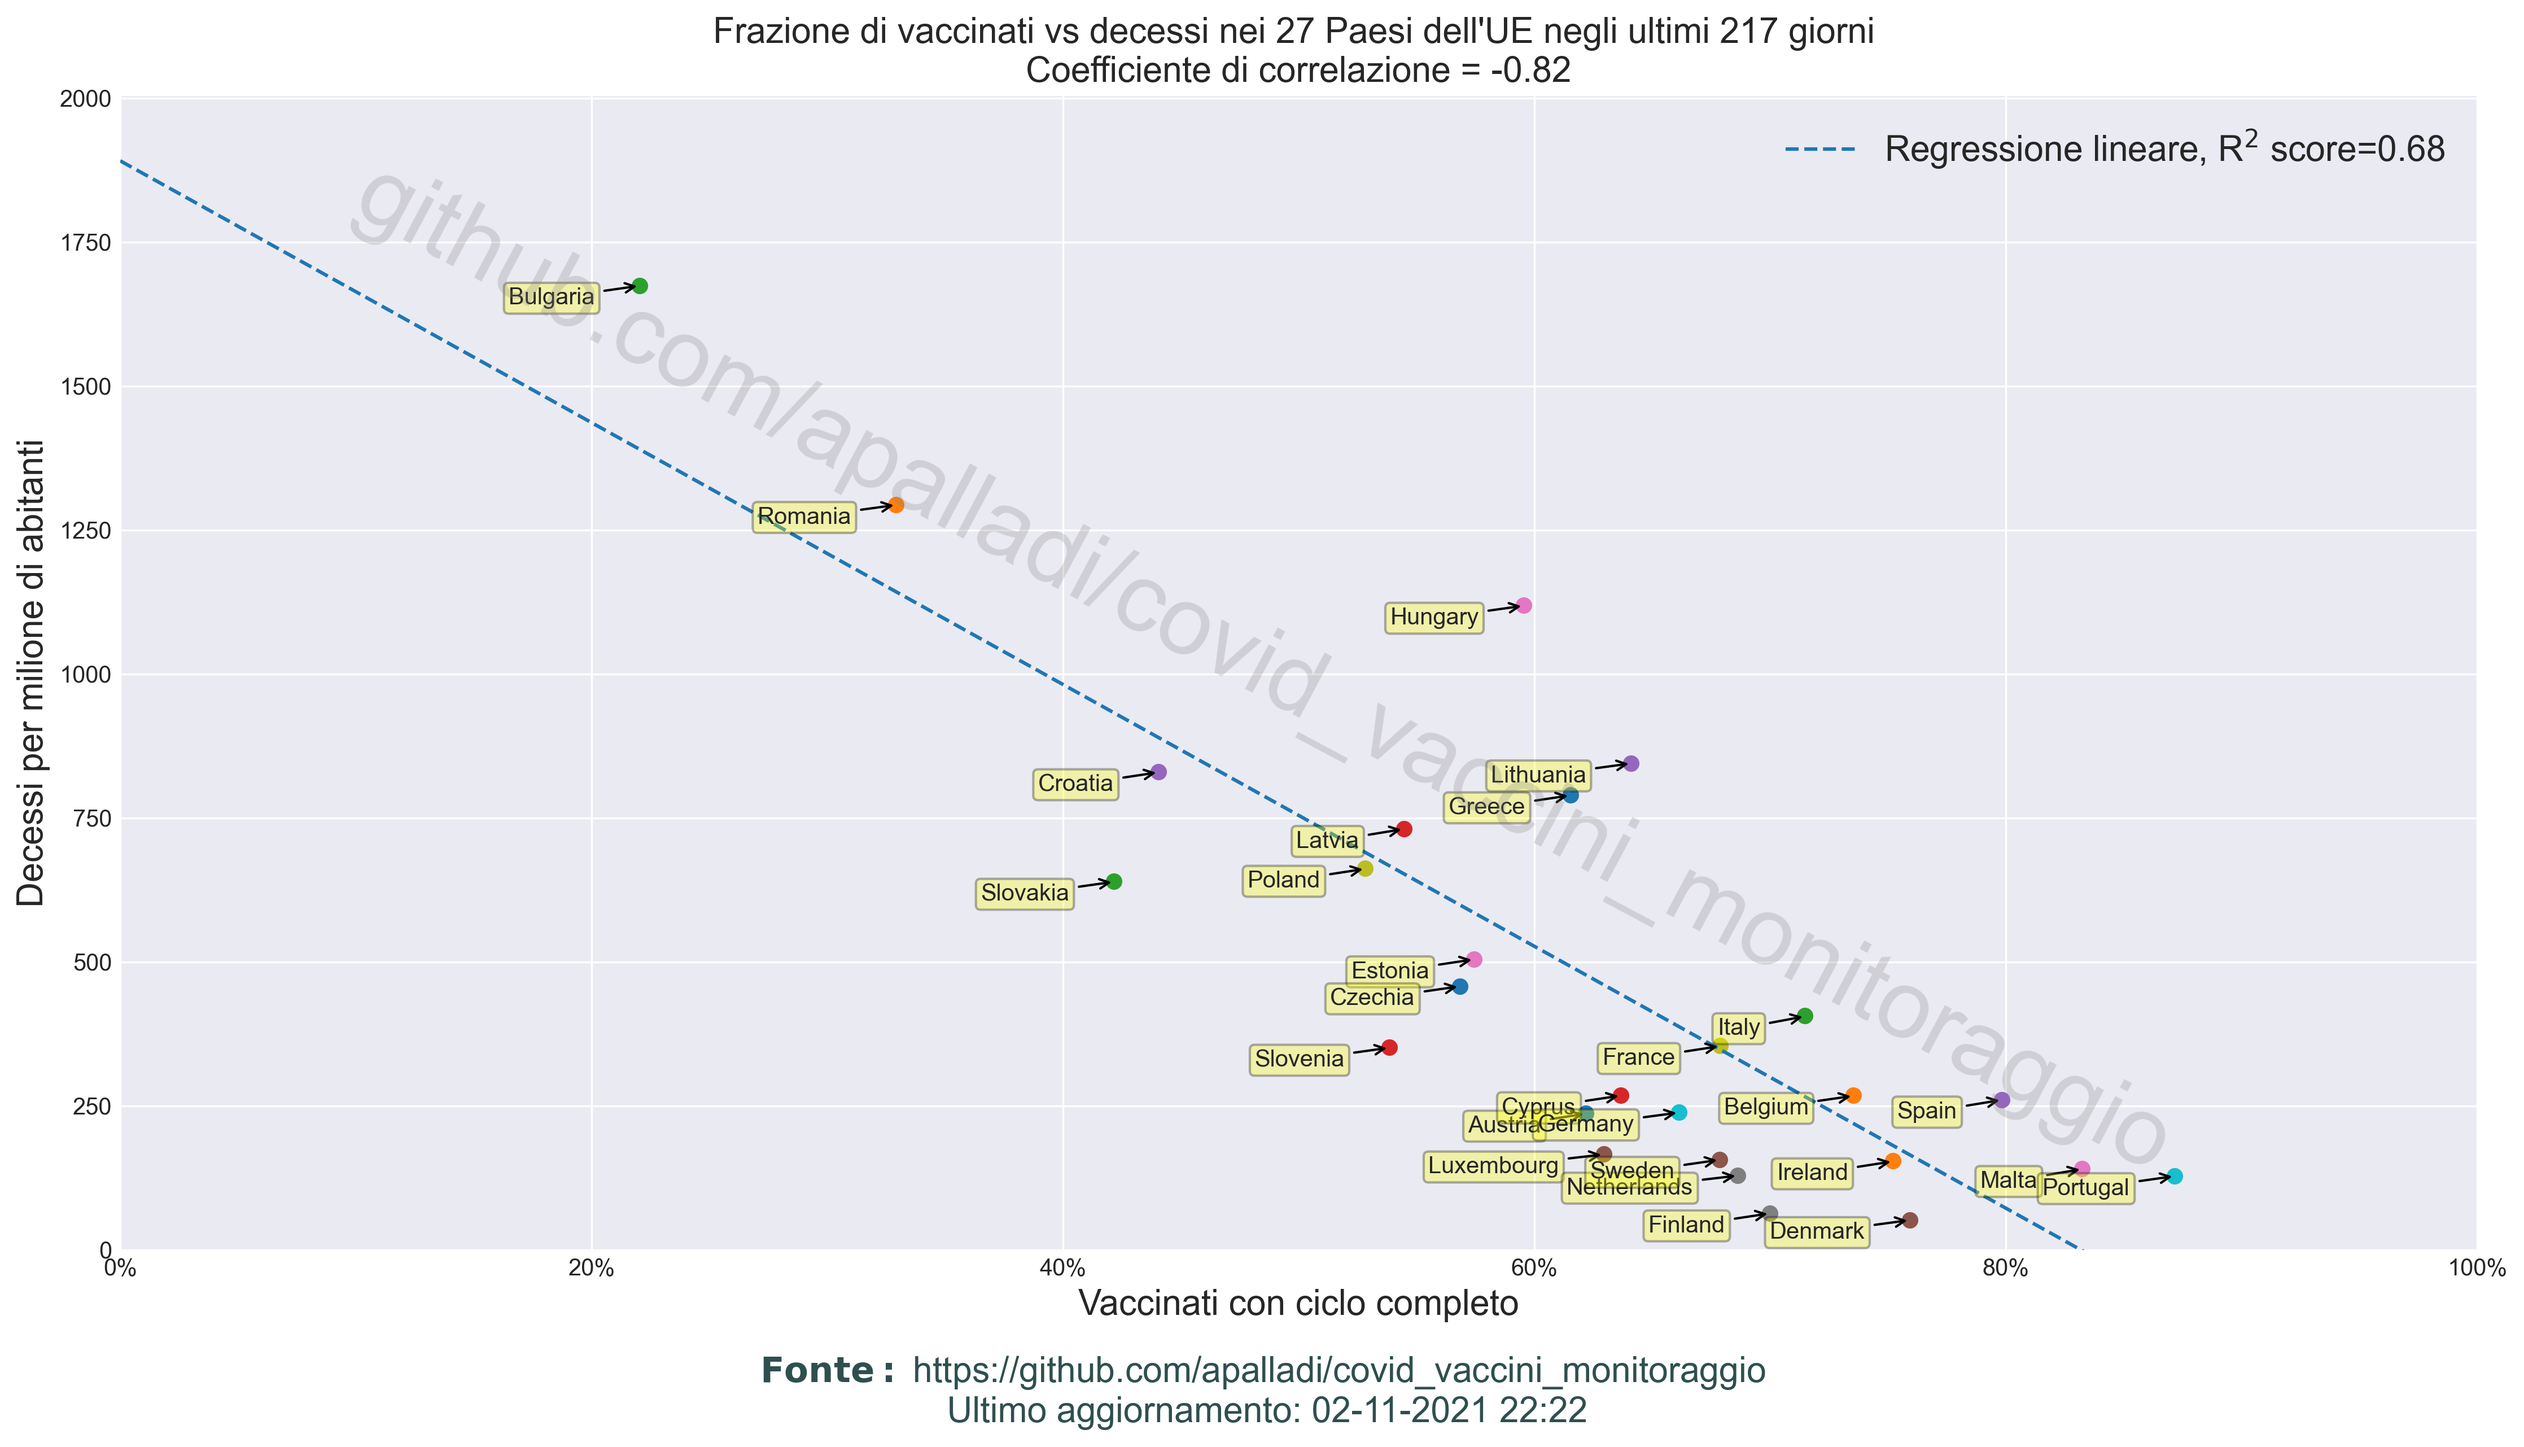
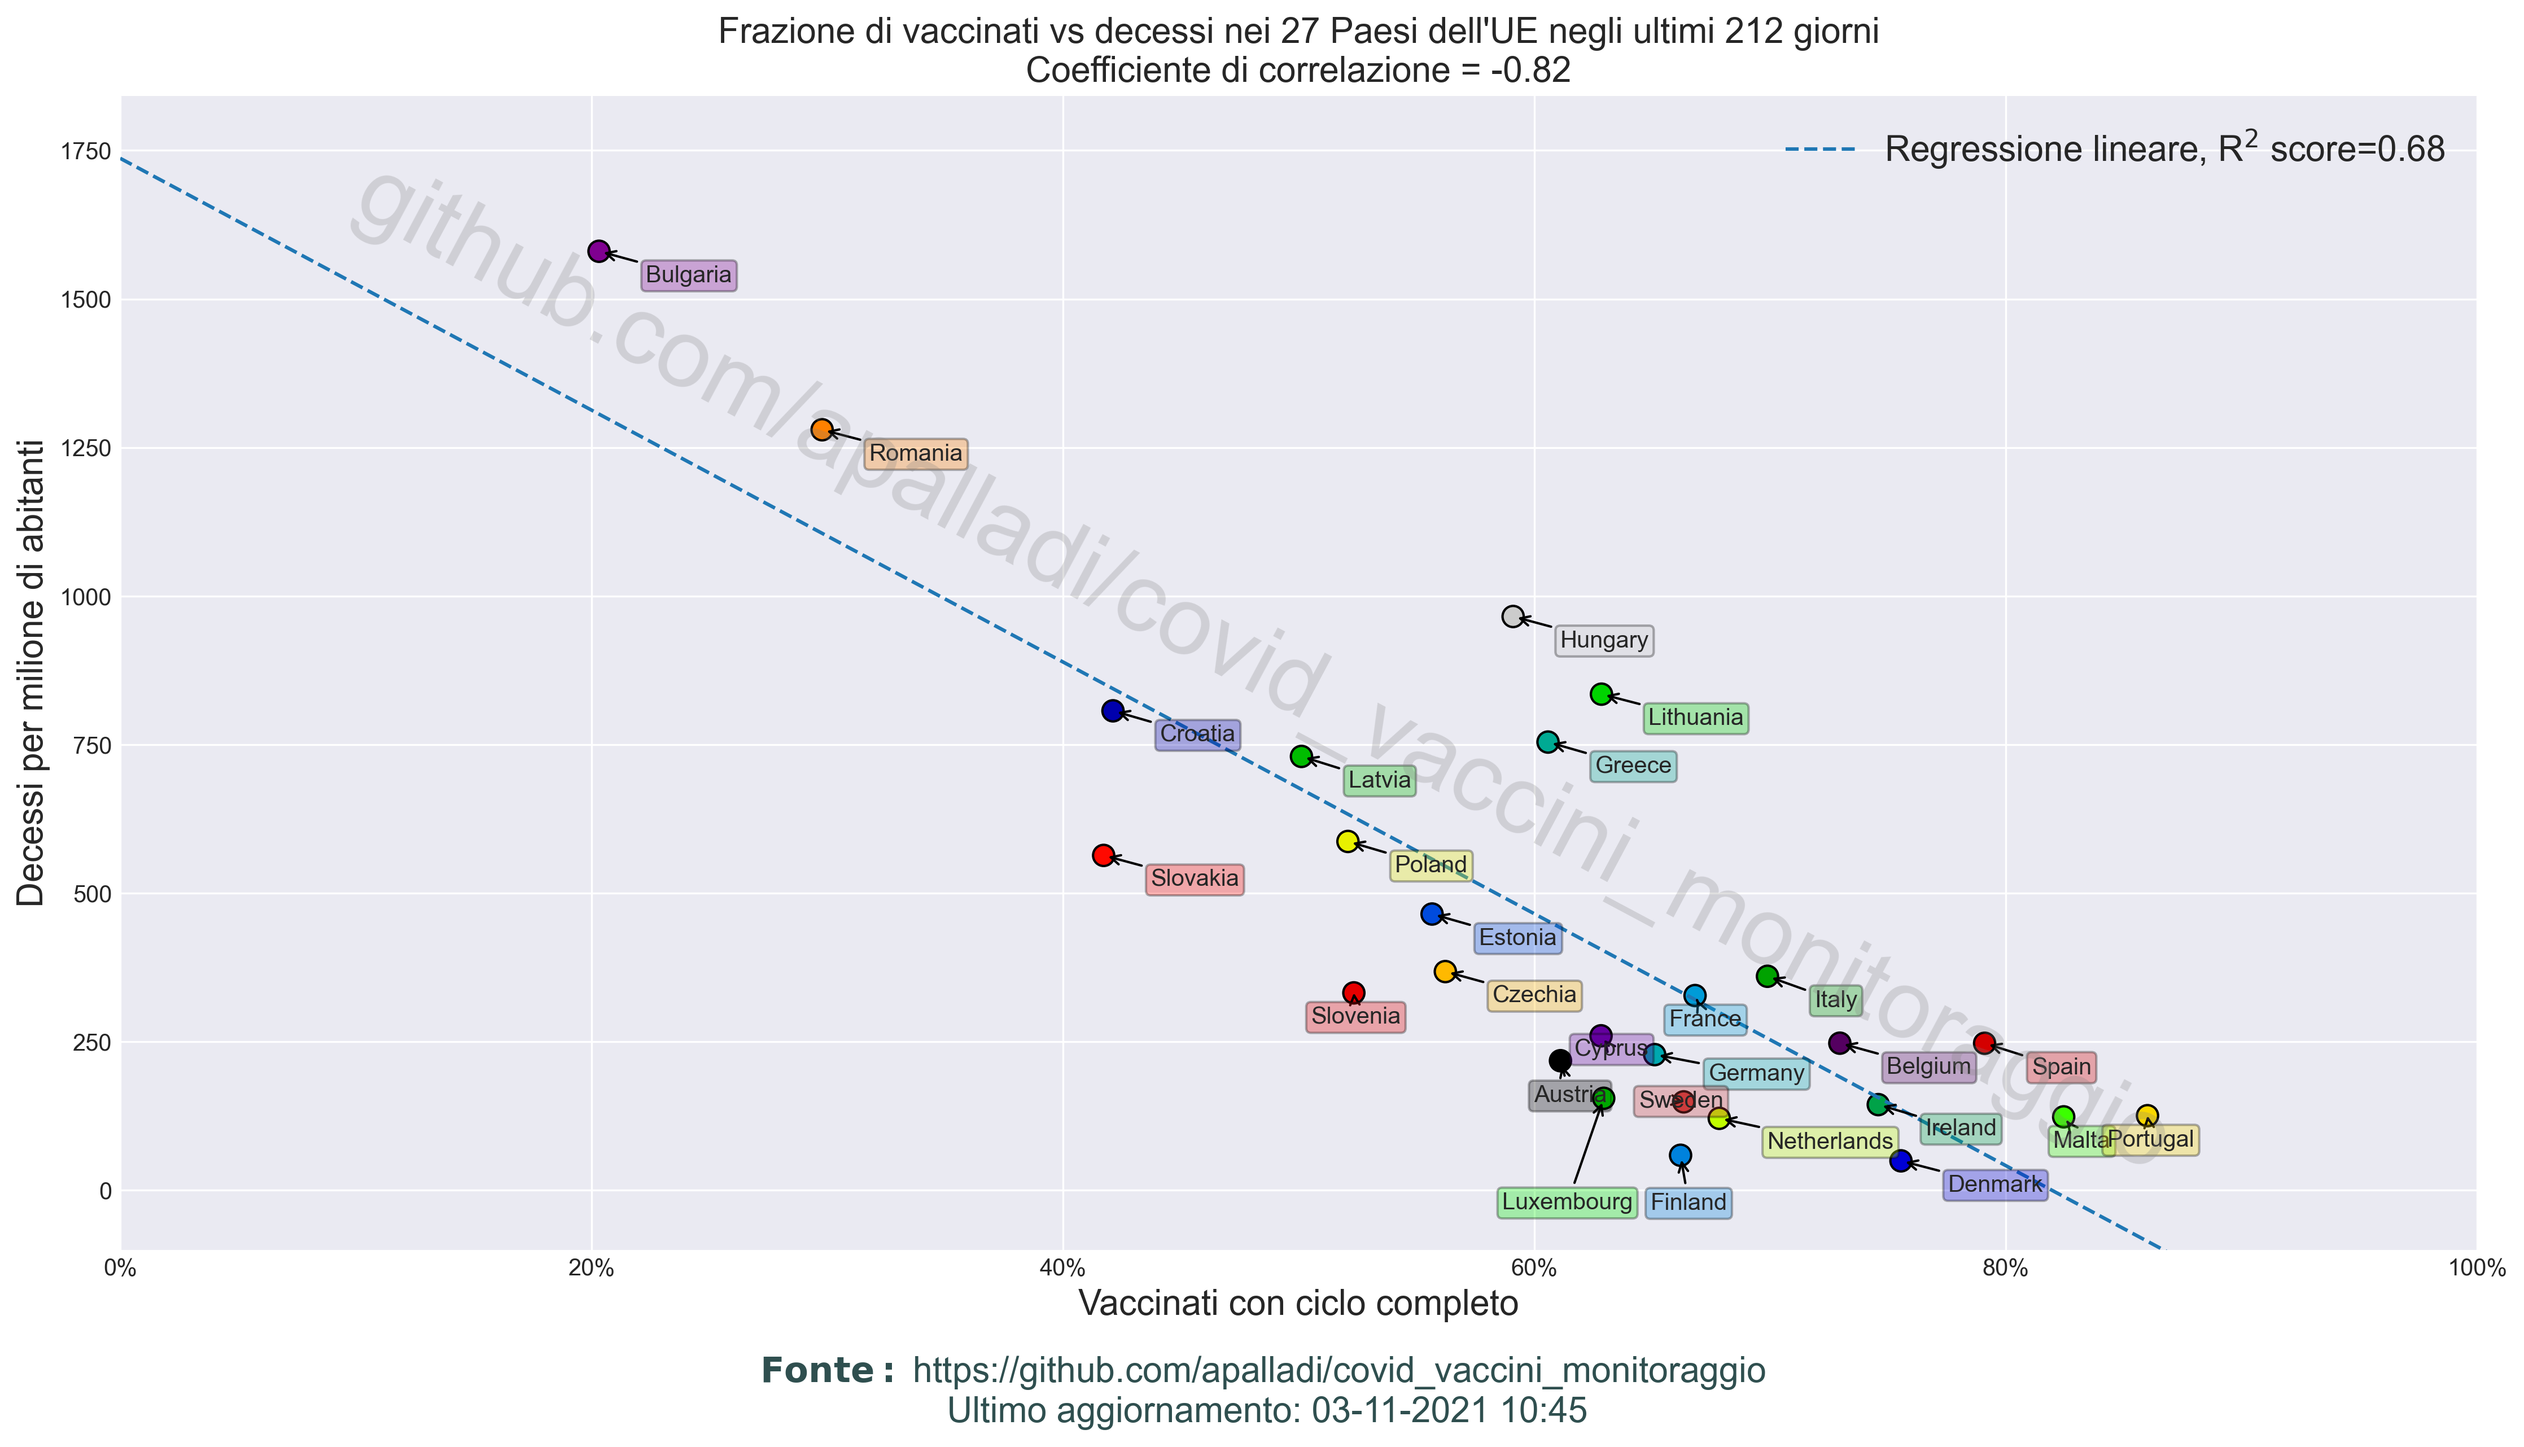
confronti_europei.py: correzione sovrapposizioni labels scatter plot

diff --git a/scripts/confronti_europei.py b/scripts/confronti_europei.py
@@ -6,6 +6,7 @@ from os import chdir, path
 import matplotlib.pyplot as plt
 import numpy as np
 import pandas as pd
+from adjustText import adjust_text
 from sklearn.metrics import r2_score
 
 from custom.plots import aggiorna_ascissa
@@ -51,6 +52,7 @@ def get_vaccine_data(country, df_vacc):
 def import_epidem_data():
     """ Recupera dati epidemiologici dal JHU CSSE
         (Johns Hopkins Unversity)"""
+
     base = "https://raw.githubusercontent.com/CSSEGISandData/COVID-19/master/csse_covid_19_data/csse_covid_19_time_series/"  # noqa: E501
     file_confirmed = base + "time_series_covid19_confirmed_global.csv"
     file_deaths = base + "time_series_covid19_deaths_global.csv"
@@ -126,6 +128,7 @@ def linear_model(x, coeff_fit):
 
 def linear_fit(vacc_res_2021, dec_res_2021):
     """ fit lineare """
+
     coeff_fit = np.polyfit(vacc_res_2021, dec_res_2021, 1)
     x_grid = np.arange(0, 100, 1)
     y_grid = [linear_model(v, coeff_fit) for v in x_grid]
@@ -143,6 +146,7 @@ def linear_fit(vacc_res_2021, dec_res_2021):
 def corr_window(tw):
     """ Recupera dati decessi e vaccini per la finestra
         temporale e i paesi selezionati """
+
     dec_res = []
     vacc_res = []
     for p, abitanti in paesi_abitanti_eu.items():
@@ -155,6 +159,7 @@ def corr_window(tw):
 def compute_max_correlation():
     """ calcola la finestra temporale in cui si ottiene
         la massima correlazione """
+
     tw_grid = np.arange(7, 300, 5)
     corr_grid = [np.abs(corr_window(tw)) for tw in tw_grid]
     ideal_window = tw_grid[np.argmax(corr_grid)]
@@ -248,18 +253,26 @@ def plot_correlazione_vaccini_decessi(vacc_res_2021, dec_res_2021, x_grid, y_gri
 
     # scatter plot
     paesi = list(paesi_abitanti_eu.keys())
-    for i in range(len(vacc_res_2021)):
-        plt.scatter(vacc_res_2021[i], dec_res_2021[i])
-        plt.annotate(paesi[i],
-                     xy=(vacc_res_2021[i]+0.1, dec_res_2021[i]),
-                     xytext=(-20, -10),
-                     textcoords="offset points", ha="right", va="bottom",
-                     bbox=dict(boxstyle="round,pad=0.2", fc="yellow", alpha=0.3),
-                     arrowprops=dict(arrowstyle="->", connectionstyle="arc3,rad=0"))
+    # genera lista di colori
+    colors = plt.cm.nipy_spectral(np.linspace(0, 1, len(paesi)))
+    plt.scatter(vacc_res_2021, dec_res_2021, c=colors,
+                edgecolor="black", s=3*len(paesi))
+
+    texts = [plt.annotate(paesi[i],
+             xy=(vacc_res_2021[i], dec_res_2021[i]),
+             xytext=(20, -15),
+             textcoords="offset points",
+             bbox=dict(boxstyle='round,pad=0.2', fc=colors[i], alpha=0.3),
+             arrowprops=dict(arrowstyle="->", lw=1.0))
+             for i in range(len(vacc_res_2021))]
+
+    # fix text overlap
+    adjust_text(texts)
+
     # fit plot
     plt.plot(x_grid, y_grid, linestyle="--", label=f"Regressione lineare, R$^2$ score={score}")
 
-    plt.ylim(0, )
+    plt.ylim(-100, )
     plt.xlim(0, 100)
     title = "Frazione di vaccinati vs decessi nei 27 Paesi dell'UE"
     title += f" negli ultimi {ideal_window} giorni"
@@ -294,6 +307,7 @@ if __name__ == "__main__":
     # Imposta stile grafici
     plt.style.use("seaborn-dark")
 
+    # importa dati
     df_confirmed, df_deaths, df_recovered = import_epidem_data()
     df_vacc = import_vaccines_data()
 
@@ -319,5 +333,4 @@ if __name__ == "__main__":
                                       x_grid,
                                       y_grid,
                                       ideal_window,
-                                      score,
-                                      show=True)
+                                      score)
